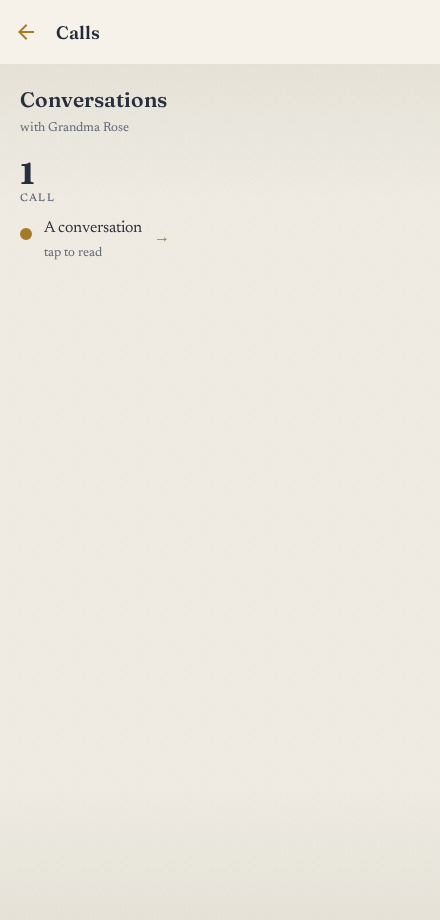
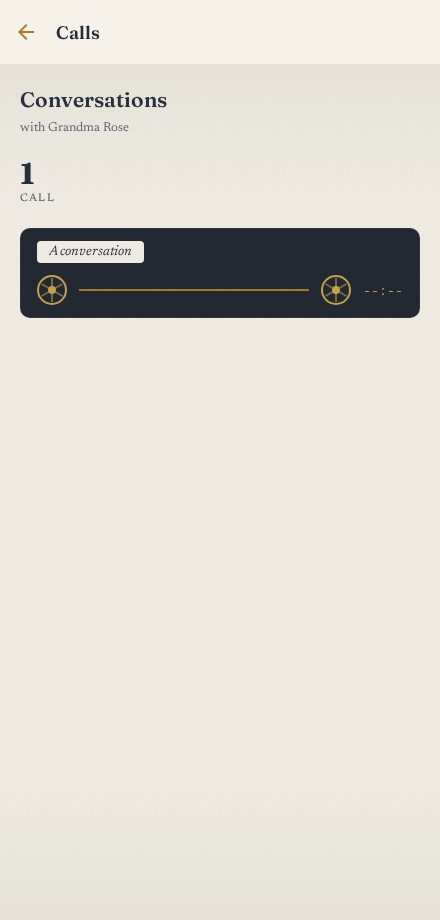
Showcase: refresh screenshots for the retro pass
Regenerate the gallery to match the new look — letterpress masthead + gold-
tooled album cover on Home, the Calls screen as a shelf of cassettes, and a
new "in their voice" shot of the cassette voice player. Fix stale captions
(ink dock, not glass; cassette timeline).

Changed region(s): [[0.0295, 0.2435, 0.975, 0.3652]]

diff --git a/README.md b/README.md
@@ -73,22 +73,22 @@ a go-to-market wedge, isolated to provider config — never the product's identi
 | The album | A chapter | The conversation |
 |:---:|:---:|:---:|
 | <img src="docs/showcase/02-home.png" width="230"/> | <img src="docs/showcase/03-chapter.png" width="230"/> | <img src="docs/showcase/05-threads.png" width="230"/> |
-| Each storyteller is a monogrammed album; the greeting is the masthead; a glass bottom-nav ties it together. | A drop-cap opens the chapter; gold-underlined sentences carry the real recorded voice. | "Ask them something" — the family plants questions that flow into the next real call. |
+| Each storyteller is a gold-tooled, monogrammed album; the greeting is a letterpress masthead; an ink dock ties it together. | A drop-cap opens the chapter; gold-underlined sentences carry the real recorded voice. | "Ask them something" — the family plants questions that flow into the next real call. |
 
 | Calls | Manage | Add a storyteller |
 |:---:|:---:|:---:|
 | <img src="docs/showcase/04-calls.png" width="230"/> | <img src="docs/showcase/06-manage.png" width="230"/> | <img src="docs/showcase/08-add.png" width="230"/> |
-| A timeline of every conversation, with honest states. | Consent, cadence, and a one-tap "erase everything." | Universal — any name, any language, any voice. |
+| Every recorded conversation is a cassette, dated and timed; unrecorded calls stay honest quiet rows. | Consent, cadence, and a one-tap "erase everything." | Universal — any name, any language, any voice. |
 
 | Portrait | You | Arrival |
 |:---:|:---:|:---:|
 | <img src="docs/showcase/09-portrait.png" width="230"/> | <img src="docs/showcase/07-account.png" width="230"/> | <img src="docs/showcase/01-signin.png" width="230"/> |
 | Who they are — the people and places of a life, each carrying the words they actually spoke. | The keeper's account, kept simple. | Opening the album, in lamplight. |
 
-| The whole memoir | Search |
-|:---:|:---:|
-| <img src="docs/showcase/10-memoir.png" width="230"/> | <img src="docs/showcase/11-search.png" width="230"/> |
-| The book read end to end — each chapter opens with a drop cap; the recorded sentences keep their gold thread. | Find a story or a moment across the written book and the storyteller's own recorded words. |
+| The whole memoir | Search | In their voice |
+|:---:|:---:|:---:|
+| <img src="docs/showcase/10-memoir.png" width="230"/> | <img src="docs/showcase/11-search.png" width="230"/> | <img src="docs/showcase/12-cassette.png" width="230"/> |
+| The book read end to end — each chapter opens with a drop cap; the recorded sentences keep their gold thread. | Find a story or a moment across the written book and the storyteller's own recorded words. | Tap any gold-threaded line and it plays back on a cassette deck, in the storyteller's real voice. |
 
 </div>
 
